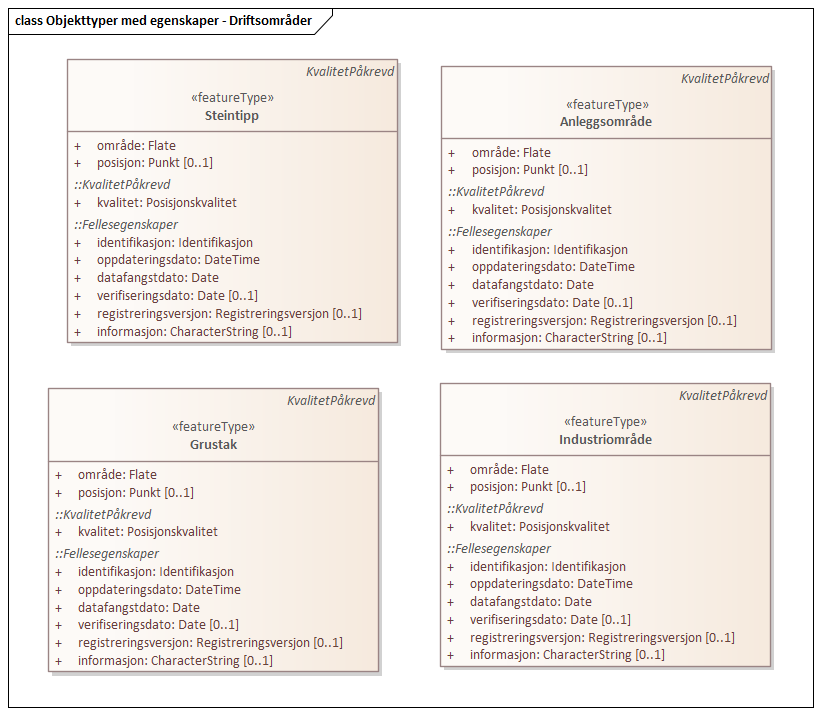
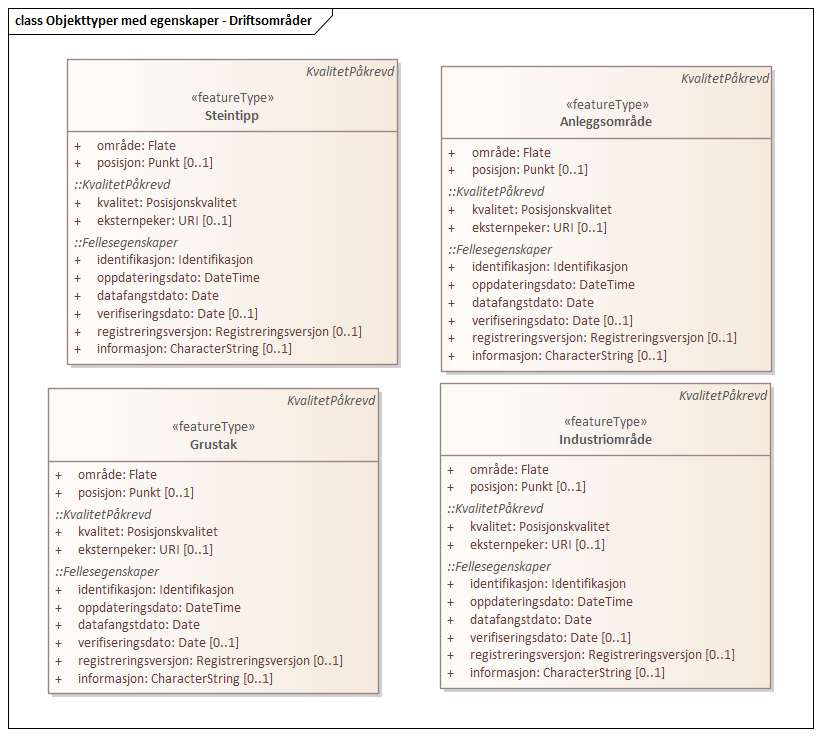
Oppdatert arealbruk fra EA

diff --git a/produktspesifikasjoner/arealbruk/index.html b/produktspesifikasjoner/arealbruk/index.html
@@ -445,8 +445,8 @@ body.book #toc,body.book #preamble,body.book h1.sect0,body.book .sect1>h2{page-b
 <li><a href="#trueinnledning">1. Innledning</a>
 <ul class="sectlevel2">
 <li><a href="#truebeskrivelse">1.1. Beskrivelse</a></li>
-<li><a href="#truehistorikk">Historikk</a></li>
-<li><a href="#trueendringslogg">1.2. Endringslogg</a></li>
+<li><a href="#truehistorikk">1.2. Historikk</a></li>
+<li><a href="#trueendringslogg">1.3. Endringslogg</a></li>
 </ul>
 </li>
 <li><a href="#truedefinisjoner-og-forkortelser">2. Definisjoner og forkortelser</a>
@@ -563,11 +563,12 @@ Testversjon 2021-06-21
 <p>FKB Generell del finnes her: [link]</p>
 </div>
 <div class="paragraph">
-<p>Mye av detaljinformasjonen om registrering av de ulike objekttypene i FKB er samlet i egne Fotogrammetriske registreringsinstrukser. Fotogrammetrisk registreringsinstruks for FKB-Arealbruk 5.0 finnes her:</p>
+<p>Mye av detaljinformasjonen om registrering av de ulike objekttypene i FKB er samlet i egne Fotogrammetriske registreringsinstrukser. Fotogrammetrisk registreringsinstruks for FKB-Arealbruk 5.0 finnes her:
+(link)</p>
 </div>
 </div>
 <div class="sect2">
-<h3 id="truehistorikk"><a class="anchor" href="#truehistorikk"></a>Historikk</h3>
+<h3 id="truehistorikk"><a class="anchor" href="#truehistorikk"></a>1.2. Historikk</h3>
 <div class="paragraph">
 <p>Tidligere versjoner:</p>
 </div>
@@ -598,7 +599,7 @@ Testversjon 2021-06-21
 </div>
 </div>
 <div class="sect2">
-<h3 id="trueendringslogg"><a class="anchor" href="#trueendringslogg"></a>1.2. Endringslogg</h3>
+<h3 id="trueendringslogg"><a class="anchor" href="#trueendringslogg"></a>1.3. Endringslogg</h3>
 <div class="paragraph">
 <p>Endringer siden FKB-Arealbruk versjon 4.61 - 2018-01-01:</p>
 </div>
@@ -1077,7 +1078,10 @@ Informasjon om fullstendighet må være datert.</p>
 <div class="sect3">
 <h4 id="truefeaturetype-anleggsområde"><a class="anchor" href="#truefeaturetype-anleggsområde"></a>5.2.1. «featureType» Anleggsområde</h4>
 <div class="paragraph">
-<p>Definisjon: område der det pågår anleggsarbeid</p>
+<p>Definisjon: omr&#229;de der det p&#229;g&#229;r anleggsarbeid</p>
+</div>
+<div class="paragraph">
+<p>I FKB er det en m&#229;lsetting om at mest mulig av byggeaktivitet n&#229;r det gjelder f.eks. bygninger eller veganlegg fanges opp gjennom saksbehandling og legges inn i tiltaksbasen (FKB-Tiltak). Anleggsomr&#229;der som ligger i tiltaksbasen skal ikke inng&#229; i FKB-Arealbruk.</p>
 </div>
 <div class="paragraph">
 <p><strong>Supertype:</strong> «FeatureType» KvalitetPåkrevd</p>
@@ -2400,6 +2404,30 @@ SOSI_navn: INFORMASJON<br></p></td>
 </tr>
 </tbody>
 </table>
+<table class="tableblock frame-all grid-all stretch">
+<colgroup>
+<col style="width: 20%;">
+<col style="width: 80%;">
+</colgroup>
+<tbody>
+<tr>
+<td class="tableblock halign-left valign-top"><p class="tableblock"><strong>Navn:</strong></p></td>
+<td class="tableblock halign-left valign-top"><p class="tableblock"><strong>eksternpeker</strong></p></td>
+</tr>
+<tr>
+<td class="tableblock halign-left valign-top"><p class="tableblock">Definisjon:</p></td>
+<td class="tableblock halign-left valign-top"></td>
+</tr>
+<tr>
+<td class="tableblock halign-left valign-top"><p class="tableblock">Multiplisitet:</p></td>
+<td class="tableblock halign-left valign-top"><p class="tableblock">[0..1]</p></td>
+</tr>
+<tr>
+<td class="tableblock halign-left valign-top"><p class="tableblock">Type:</p></td>
+<td class="tableblock halign-left valign-top"><p class="tableblock">URI</p></td>
+</tr>
+</tbody>
+</table>
 </div>
 <div class="sect4">
 <h5 id="trueroller-2"><a class="anchor" href="#trueroller-2"></a>Roller</h5>
@@ -3257,7 +3285,7 @@ Informasjon, fortrinnsvis av informativ art, som kan være nyttig for brukere, s
 </div>
 <div id="footer">
 <div id="footer-text">
-Last updated 2021-06-21 10:13:43 +0200
+Last updated 2021-06-22 12:59:59 +0200
 </div>
 </div>
 <link rel="stylesheet" href="https://cdnjs.cloudflare.com/ajax/libs/highlight.js/9.15.6/styles/github.min.css">
